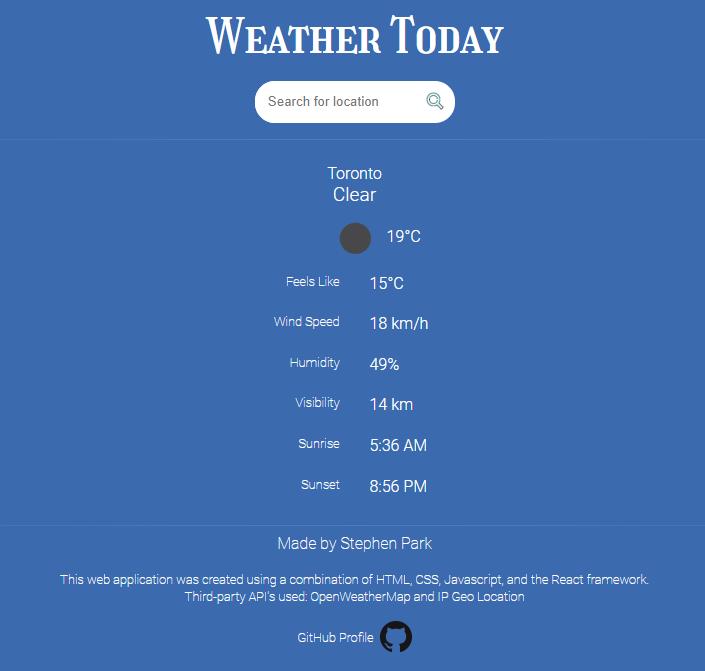
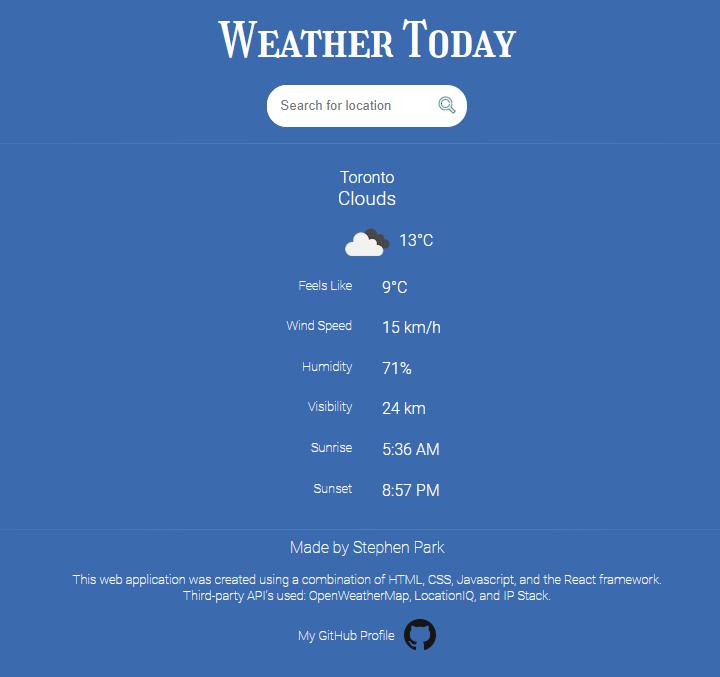
update readme, fix screenshot, fix deploy

diff --git a/server/index.js b/server/index.js
@@ -2,11 +2,11 @@ const express = require("express");
 const path = require("path");
 const axios = require("axios");
 const requestIp = require("request-ip");
-const MY_IP = require("./config");
 const app = express();
 
 const SERVER_PORT = process.env.PORT || 5000;
 const PRODUCTION_MODE = process.env.NODE_ENV === "production";
+let MY_IP; if (PRODUCTION_MODE) MY_IP = require("./config");
 
 const WEATHERDATA_URL = "https://api.openweathermap.org/data/2.5/weather?";
 const WEATHERDATA_APIKEY = "b3cc305bb205466c20e6b12d5aef231f";

diff --git a/README.md b/README.md
@@ -1,12 +1,17 @@
 # Weather Today
-This web application uses AJAX to send GET requests to OpenWeatherMap API and gets current weather data (description, temperatures, feels like, wind speed/direction, sunrise, and sunset).<br />
 
-<img src="./src/WeatherToday/other-images/screenshot.png" alt="screenshot">
+## Description
+A full-stack web application made with the React framework as front-end and NodeJS/Express as back-end. It fetches geolocation data and weather data from third-party APIs.
 
-APIs used:<br />
+## Demo Link:
+https://weather-today-react.herokuapp.com/
+
+## Screenshot
+<img src="./client/src/App/other-images/screenshot.png" alt="screenshot">
+
+## Third-party APIs used:
 <ul>
-    <li>IP Geo Location API: https://ipgeolocation.io/</li><br />
-    <li>OpenWeatherMap API: https://openweathermap.org/api</li><br />
+    <li>OpenWeatherMap API: https://openweathermap.org/api</li>
     <li>LocationIQ API: https://locationiq.com/</li>
-</ul><br />
-Demo Link: https://stephenpark.site/Weather-Today<br />
+    <li>IP Stack API: https://ipstack.com/</li>
+</ul>
